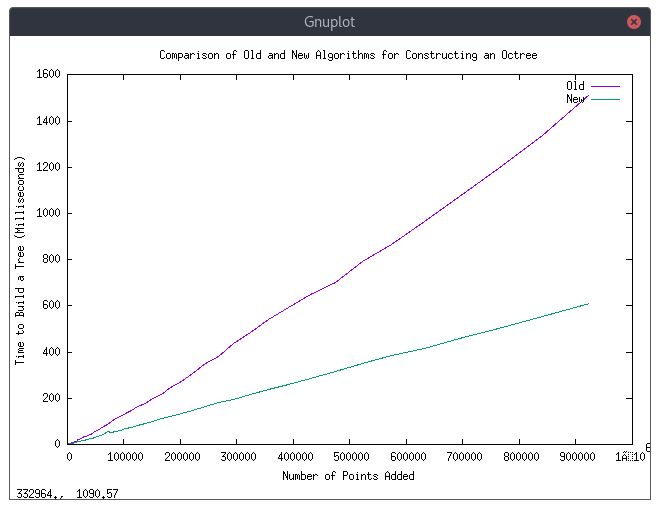
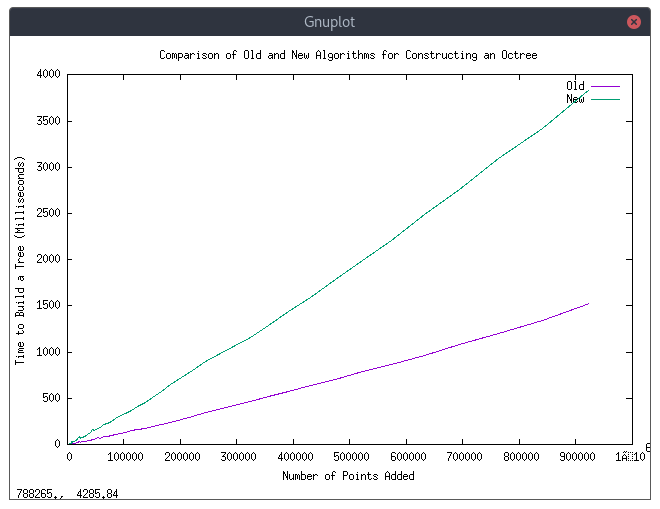
Add fixed benchmarking results

diff --git a/benchmark.h b/benchmark.h
@@ -14,7 +14,7 @@
 #include <CGAL/Exact_predicates_inexact_constructions_kernel.h>
 #include <CGAL/Point_set_3.h>
 #include <CGAL/point_generators_3.h>
-
+#include "Octree.h"
 
 
 using std::cin;
@@ -22,6 +22,9 @@ using std::cout;
 using std::endl;
 
 using namespace std::chrono;
+
+#define BUCKET_SIZE 20
+#define MAX_DEPTH 10
 
 // Defining the kernel
 typedef CGAL::Exact_predicates_inexact_constructions_kernel Kernel;
@@ -53,7 +56,9 @@ int bench_old(Point_set points) {
   auto start = high_resolution_clock::now();
 
   auto oldOctree = OldOctree((Traits()), input_iterator_first,
-                             input_iterator_beyond, point_map, normal_map);
+                             input_iterator_beyond, point_map, normal_map,
+                             0, BUCKET_SIZE, MAX_DEPTH);
+
   oldOctree.createTree();
 
   auto end = high_resolution_clock::now();
@@ -70,6 +75,7 @@ int bench_new(Point_set points) {
   auto start = high_resolution_clock::now();
 
   NewOctree newOctree(points, point_map, normal_map);
+  newOctree.refine(MAX_DEPTH, BUCKET_SIZE);
 
   auto end = high_resolution_clock::now();
   return duration_cast<microseconds>(end - start).count();

diff --git a/main.cpp b/main.cpp
@@ -20,7 +20,7 @@ void synthetic_bench() {
 
   std::vector<int> x, yOld, yNew;
 
-  for (int N = 1; N < 3000; N += 1 + (N / 10)) {
+  for (int N = 1; N < 1000000; N += 1 + (N / 10)) {
 
     cout << N << endl;
     x.push_back(N);
@@ -49,7 +49,7 @@ void synthetic_bench() {
 
   Gnuplot plot("lines");
   plot.set_title("Comparison of Old and New Algorithms for Constructing an Octree");
-  plot.set_ylabel("Time to Build a Tree (Microseconds)");
+  plot.set_ylabel("Time to Build a Tree (Milliseconds)");
   plot.set_xlabel("Number of Points Added");
   plot.plot_xy(x, yOld, "Old");
   plot.plot_xy(x, yNew, "New");
@@ -75,7 +75,7 @@ void photogrammetry_bench() {
 
     cout << points.size() << endl;
 
-    points.remove(CGAL::random_simplify_point_set(points, 1) - 1, points.end());
+    points.remove(CGAL::random_simplify_point_set(points, 0.1) - 1, points.end());
 
     x.insert(x.begin(), points.size());
     yOld.insert(yOld.begin(), bench_old(points));
@@ -97,5 +97,5 @@ void photogrammetry_bench() {
 
 int main() {
 
-  synthetic_bench();
+  photogrammetry_bench();
 }
